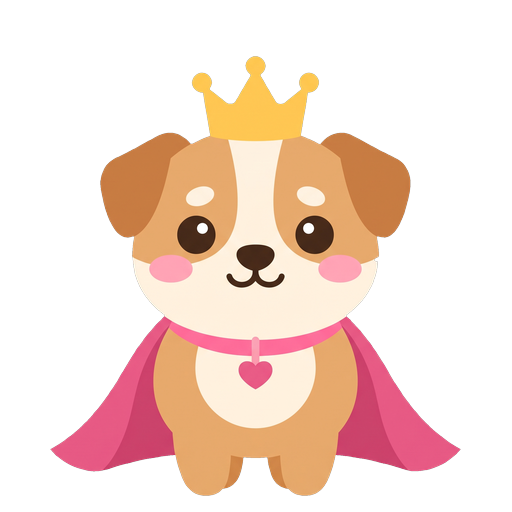
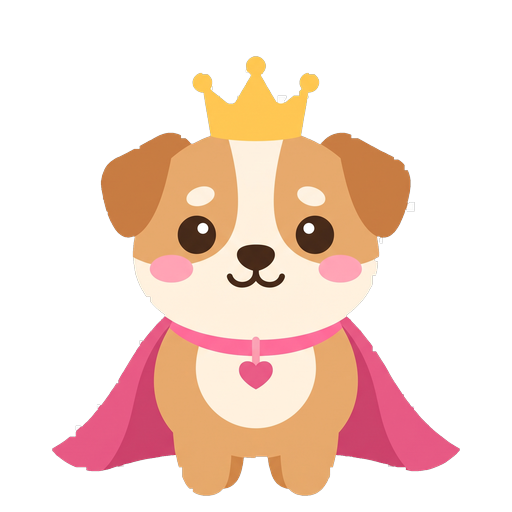
ビーグルのおやこイラストを追加
黒い地面の線とタッチの不一致を直したものを取り込み、
beagle に family:true を付けた。素材ページも done に更新。

これでレベル15でおやこになるのは ビションフリーゼ と ビーグル。

diff --git a/index.html b/index.html
@@ -1418,7 +1418,7 @@ function itemsOf(lv){
 /* small:true の いぬは なきごえを たかく する（VOICE_RATE_SMALL）。
    小型犬 / 中型・大型犬 の 一般的な わけかたに あわせて いる。 */
 var BREEDS = [
-  { id:'beagle',        name:'ビーグル',             ready:true, small:false },
+  { id:'beagle',        name:'ビーグル',             ready:true, small:false, family:true },
   { id:'shiba',         name:'しばいぬ',             ready:true, small:false },
   { id:'dachshund',     name:'ミニチュアダックス',   ready:true, small:true  },
   { id:'pomeranian',    name:'ポメラニアン',         ready:true, small:true  },

diff --git a/sozai.html b/sozai.html
@@ -125,7 +125,7 @@ h1{
 /* できあがった犬種は done:true にする（おやこイラストを作りおえたもの） */
 var BREEDS = [
   { id:'bichon',        name:'ビションフリーゼ',     done:true  },
-  { id:'beagle',        name:'ビーグル',             done:false },
+  { id:'beagle',        name:'ビーグル',             done:true  },
   { id:'shiba',         name:'しばいぬ',             done:false },
   { id:'dachshund',     name:'ミニチュアダックス',   done:false },
   { id:'pomeranian',    name:'ポメラニアン',         done:false },
